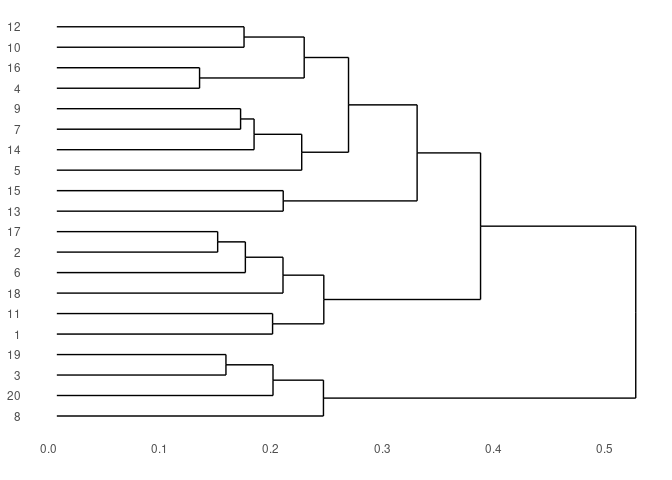
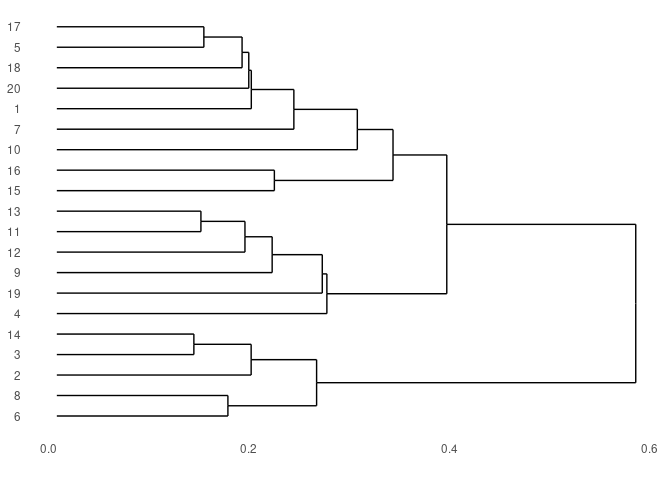
re

diff --git a/README.md b/README.md
@@ -41,7 +41,7 @@ s0 <- PubmedMTK::pmtk_search_pubmed(search_term = 'medical marijuana',
                                     fields = c('TIAB','MH'))
 ```
 
-    ## [1] "medical marijuana: 2125 records"
+    ## [1] "medical marijuana[TIAB] OR medical marijuana[MH]: 2125 records"
 
 ``` r
 head(s0)
@@ -151,8 +151,8 @@ lda <- text2vec::LDA$new(n_topics = 20)
 fit <- lda$fit_transform(dtm, progressbar = F)
 ```
 
-    ## INFO  [10:17:14.068] early stopping at 90 iteration 
-    ## INFO  [10:17:14.271] early stopping at 30 iteration
+    ## INFO  [10:55:23.818] early stopping at 100 iteration 
+    ## INFO  [10:55:23.992] early stopping at 20 iteration
 
 ``` r
 tm_summary <- PubmedMTK::pmtk_summarize_lda(
@@ -161,18 +161,18 @@ tm_summary <- PubmedMTK::pmtk_summarize_lda(
 
 #### Feature composition of first ten topics
 
-| topic_id | topic_features                                                                                                                                                                                                             |
-|---------:|:---------------------------------------------------------------------------------------------------------------------------------------------------------------------------------------------------------------------------|
-|        1 | adolescent \| marijuana_smoking \| cannabis \| california \| young_adult \| canada \| adolescent_behavior \| substance_use \| commerce \| pharmacists                                                                      |
-|        2 | cannabis \| canada \| phytotherapy \| marijuana \| illicit_drugs \| receptor,\_cannabinoid,\_cb1 \| cross-sectional_studies \| endocannabinoid_system \| addiction \| receptor,\_cannabinoid,\_cb2                         |
-|        3 | male \| adult \| female \| middle_aged \| surveys_and_questionnaires \| internet \| self_report \| public_opinion \| accidents,\_traffic \| risk_factors                                                                   |
-|        4 | cannabidiol \| cannabis \| epilepsy \| dronabinol \| treatment_outcome \| quality_of_life \| plant_extracts \| randomized_controlled_trials_as_topic \| neuralgia \| germany                                               |
-|        5 | drug_and_narcotic_control \| united_states \| state_government \| government_regulation \| federal_government \| drug_approval \| health_policy \| marijuana_smoking \| risk_assessment \| legislation,\_medical           |
-|        6 | cannabis \| cannabinoids \| attitude_of_health_personnel \| neoplasms \| health_knowledge,\_attitudes,\_practice \| evidence-based_medicine \| risk_assessment \| practice_guidelines_as_topic \| health_personnel \| pain |
-|        7 | marijuana \| legislation,\_drug \| united_states \| child \| public_policy \| marijuana_use \| cannabis \| legalization \| commerce \| public_health                                                                       |
-|        8 | adult \| aged \| middle_aged \| cross-sectional_studies \| surveys_and_questionnaires \| young_adult \| aged,\_80_and_over \| female \| male \| health_knowledge,\_attitudes,\_practice                                    |
-|        9 | legislation,\_drug \| substance-related_disorders \| practice_patterns,\_physicians’ \| phytotherapy \| marijuana_use \| physicians \| politics \| united_states \| analgesics,\_opioid \| socioeconomic_factors           |
-|       10 | cannabinoids \| chronic_pain \| medical_cannabis \| pain_management \| israel \| australia \| chronic_disease \| stress_disorders,\_post-traumatic \| fibromyalgia \| cannabinoid_receptor_modulators                      |
+| topic_id | topic_features                                                                                                                                                                                         |
+|---------:|:-------------------------------------------------------------------------------------------------------------------------------------------------------------------------------------------------------|
+|        1 | analgesics,\_opioid \| opioid-related_disorders \| marijuana_abuse \| substance-related_disorders \| female \| drug_prescriptions \| opioids \| drug_overdose \| logistic_models \| prescription_drugs |
+|        2 | male \| middle_aged \| surveys_and_questionnaires \| female \| adult \| aged \| cross-sectional_studies \| treatment_outcome \| germany \| general_practitioners                                       |
+|        3 | adult \| male \| female \| young_adult \| health_knowledge,\_attitudes,\_practice \| cross-sectional_studies \| aged,\_80_and_over \| middle_aged \| marijuana_smoking \| adolescent                   |
+|        4 | cannabinoids \| cannabis \| plant_extracts \| marijuana \| mental_disorders \| chromatography,\_high_pressure_liquid \| new_zealand \| cohort_studies \| mice \| reproducibility_of_results            |
+|        5 | pain \| marijuana_smoking \| analgesics \| cannabis \| neoplasms \| animals \| legislation,\_drug \| cannabinoids \| antineoplastic_agents \| treatment_outcome                                        |
+|        6 | male \| female \| adult \| marijuana_use \| adolescent \| prevalence \| alcohol_drinking \| risk_factors \| sex_factors \| motivation                                                                  |
+|        7 | chronic_pain \| pain_management \| medical_cannabis \| treatment_outcome \| middle_aged \| quality_of_life \| prospective_studies \| pain_measurement \| israel \| aged,\_80_and_over                  |
+|        8 | adolescent \| male \| female \| child \| child,\_preschool \| marijuana_smoking \| marijuana_use \| infant \| cross-sectional_studies \| cannabis                                                      |
+|        9 | dronabinol \| cannabidiol \| cannabis \| marijuana \| treatment_outcome \| nabiximols \| tetrahydrocannabinol \| legalization \| drug_combinations \| cannabinoid_receptor_agonists                    |
+|       10 | marijuana_smoking \| united_states \| marijuana_abuse \| cannabis \| public_policy \| illicit_drugs \| commerce \| prevalence \| automobile_driving \| substance_use                                   |
 
 ### Two-dimensional analyses
 
